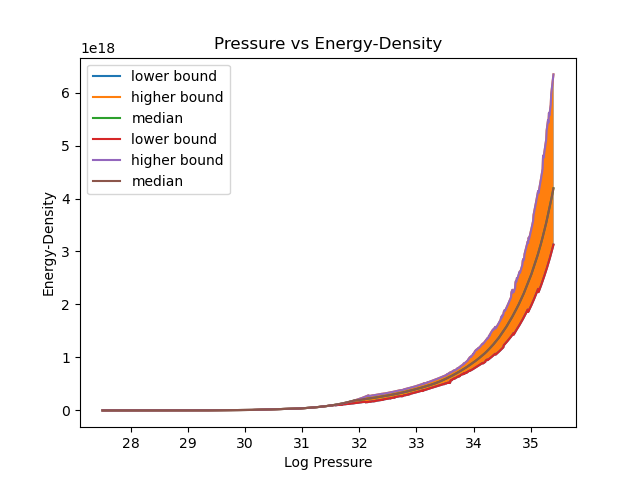
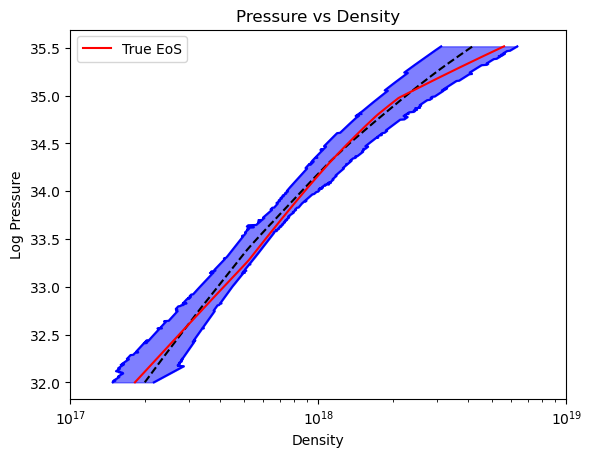
Wrapping up this segment of NICER project! Plot adjustments.

Changed region(s): [[0.0, 0.0, 0.9122, 0.9803], [0.0608, 0.7046, 0.1216, 0.7659], [0.9426, 0.8884, 1.0, 0.919]]

diff --git a/emcee_post.py b/emcee_post.py
@@ -66,7 +66,8 @@ def global_max(filename):
 def plot_m_eos_val_on_kde(MCMC_distribution_file, label, N=1000):
     # Plot the heat and kde of the eos' radii distribution
 
-    masses, radii = np.loadtxt("NICER_mock_data/mean_radii_lambdas/mass_radii_APR4_EPP_N30000.txt", unpack=True) # Mass Radius distribution of mock data
+    masses, radii = np.loadtxt("NICER_mock_data/mass_radii_posterior/used/mass_radii_APR4_EPP_N1000.txt", unpack=True) # Mass Radius distribution of mock data
+    radii = np.array(radii) / 1000
     pairs = np.vstack([masses, radii])
     kernel = st.gaussian_kde(pairs)
 
@@ -85,14 +86,15 @@ def plot_m_eos_val_on_kde(MCMC_distribution_file, label, N=1000):
 
     ax.pcolormesh(mm, rr, f)
     ax.set_xlabel('Mass')
-    ax.set_ylabel('Radius')
+    ax.set_ylabel('Radius (km)')
+    #ax.set_title("Visualization of Mock NICER Data")
 
     # APR4_EPP
     true_parameters = [33.275399244401434, 2.881652000854998, 3.380399843127479, 3.2762125079818984]
 
     log_p1_SI, g1, g2, g3, _ = global_max(MCMC_distribution_file)
     max_parameters = [log_p1_SI, g1, g2, g3]
-    names = ["APR4_EPP", "Max Likelihood"]
+    names = ["True EoS", "Max Likelihood"]
 
     x = 0
     combos = [true_parameters, max_parameters]
@@ -111,7 +113,7 @@ def plot_m_eos_val_on_kde(MCMC_distribution_file, label, N=1000):
         working_radii = []
         for m in m_grid:
             try:
-                rr = lalsim.SimNeutronStarRadius(m*lal.MSUN_SI, fam)
+                rr = lalsim.SimNeutronStarRadius(m*lal.MSUN_SI, fam) / 1000
                 working_masses.append(m)
                 working_radii.append(rr)
             except RuntimeError:
@@ -122,7 +124,8 @@ def plot_m_eos_val_on_kde(MCMC_distribution_file, label, N=1000):
         x += 1
 
     pl.legend()
-    pl.savefig("emcee_files/plots/mass_radii_{}.png".format(label))
+    pl.title("Visualization of Mock NICER Data")
+    pl.savefig("emcee_files/plots/mass_radii_{}.png".format(label), bbox_inches='tight')
 
 def plot_parameter_distribution(filename, label):
     # Plots distributions of "detailed" parameter distributions
@@ -249,11 +252,11 @@ def p_vs_rho_plot(filename, label, N):
     pl.plot(density_grid, logp_grid, "r-", label="True EoS")
 
     pl.xlabel("Density")
-    pl.ylabel("Pressure")
+    pl.ylabel("Log Pressure")
     pl.title("Pressure vs Density")
     pl.legend()
     pl.xlim([10**17, 10**19])
-    pl.savefig("emcee_files/plots/p_vs_rho_{}.png".format(label))
+    pl.savefig("emcee_files/plots/p_vs_rho_{}.png".format(label), bbox_inches='tight')
 
 def snr_radius_error(m_sigmas, r_sigmas, N, sigmas):
 
@@ -300,12 +303,16 @@ def snr_radius_error(m_sigmas, r_sigmas, N, sigmas):
 
 def snr_error_plotter(filename, N, sigmas):
         
+    pl.clf()
     data = np.loadtxt(filename)
 
     snr = data[0]
     error = data[1]
 
+    pl.rcParams.update({'font.size': 20})
+    pl.figure(figsize=(15, 10))
     pl.plot(snr, error)
-    pl.xlabel("SNR")
-    pl.ylabel("Error")
-    pl.savefig("emcee_files/plots/error_N{}_sigmas{}.png".format(N,sigmas))
+    pl.xlabel("$\\Delta$")
+    pl.ylabel("$\\frac{\\sigma[R_{1.4}]}{R_{1.4}^{\\rm True}}$")
+    pl.title("Effect of Mass-Radius Measurement on EoS Inference")
+    pl.savefig("emcee_files/plots/error_N{}_sigmas{}.png".format(N,sigmas), bbox_inches='tight')
